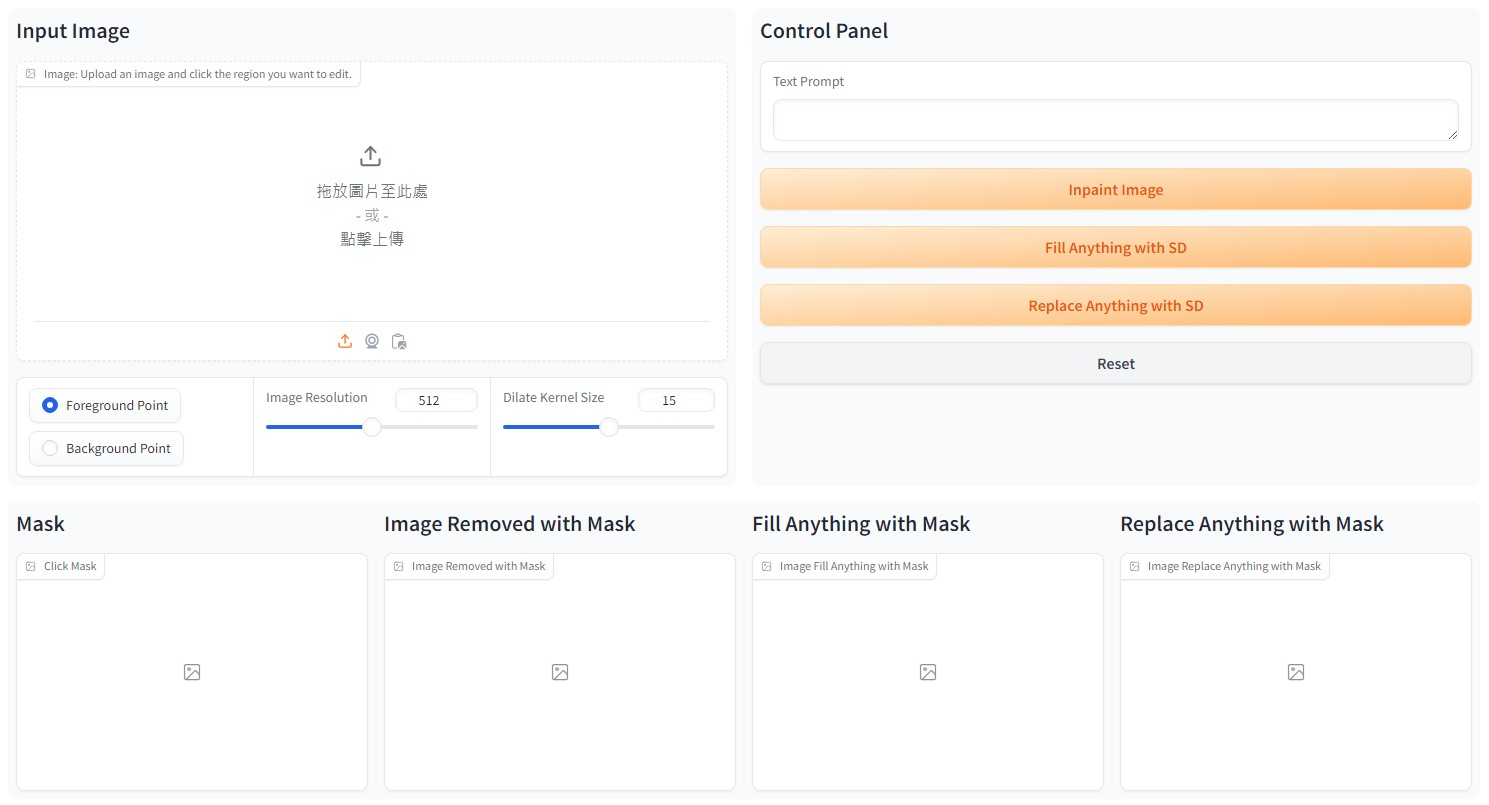
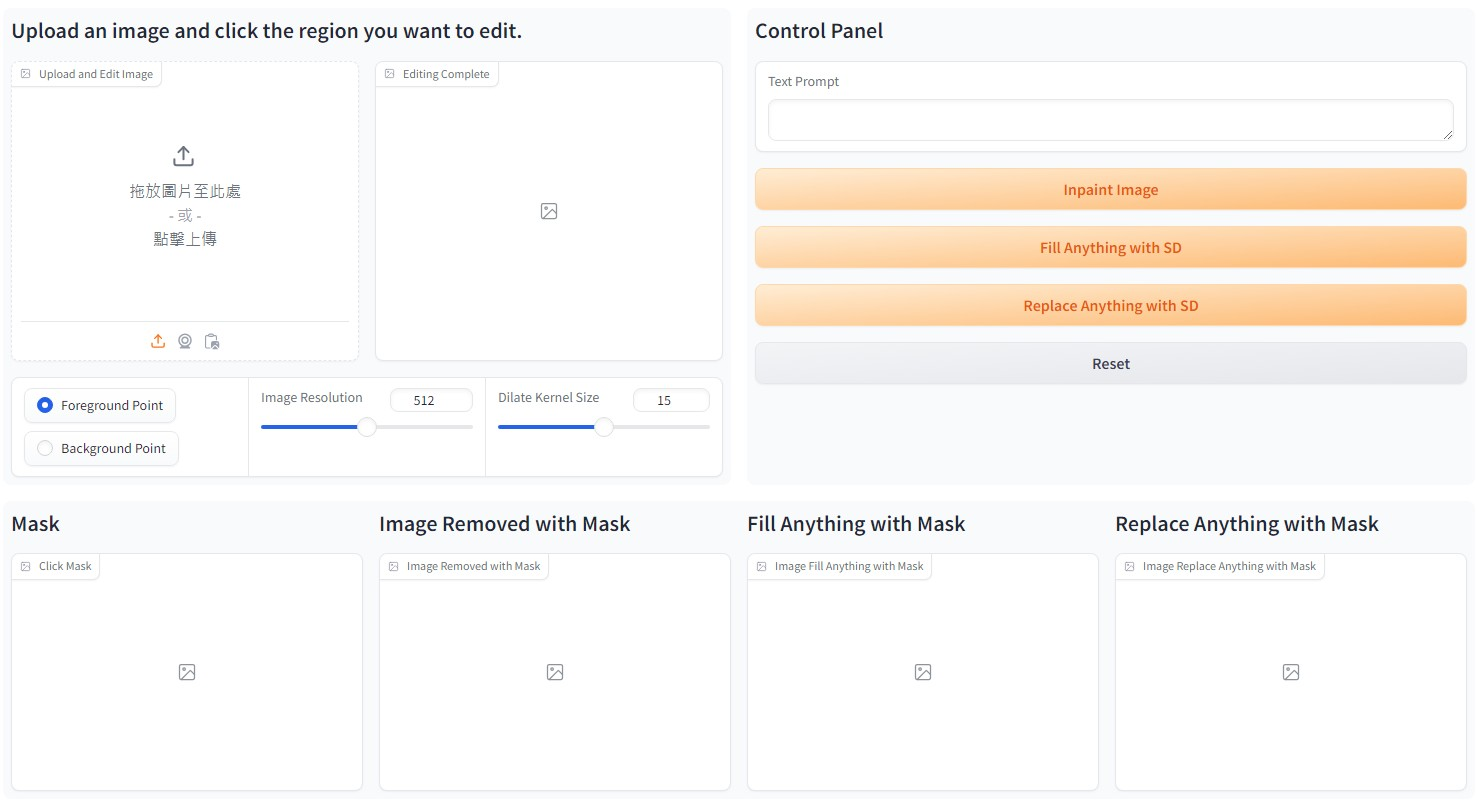
fix Upload an image and click the region you want to edit" where clicking the region causes the image to disappear. You need to click multiple times

diff --git a/app.py b/app.py
@@ -196,47 +196,47 @@ def process_image_click(
     dilate_kernel_size,
     evt: gr.SelectData,
 ):
+    if clicked_points is None:
+        clicked_points = []
+
+    # print("Received click event:", evt)
+    if original_image is None:
+        # print("No image loaded.")
+        return None, clicked_points, None
+
     clicked_coords = evt.index
+    if clicked_coords is None:
+        # print("No valid coordinates received.")
+        return None, clicked_points, None
+
     x, y = clicked_coords
     label = point_prompt
     lab = 1 if label == "Foreground Point" else 0
     clicked_points.append((x, y, lab))
+    # print("Updated points list:", clicked_points)
 
-    if original_image is None:
-        return None, clicked_points, None
     input_image = np.array(original_image, dtype=np.uint8)
-
     H, W, C = input_image.shape
     input_image = HWC3(input_image)
     img = resize_image(input_image, image_resolution)
+    # print("Processed image size:", img.shape)
 
-    # Update the clicked_points
     resized_points = resize_points(clicked_points, input_image.shape, image_resolution)
     mask_click_np = get_click_mask(
         resized_points, features, orig_h, orig_w, input_h, input_w, dilate_kernel_size
     )
-
-    # Convert mask_click_np to HWC format
     mask_click_np = np.transpose(mask_click_np, (1, 2, 0)) * 255.0
-
     mask_image = HWC3(mask_click_np.astype(np.uint8))
     mask_image = cv2.resize(mask_image, (W, H), interpolation=cv2.INTER_LINEAR)
-    # mask_image = Image.fromarray(mask_image_tmp)
+    # print("Mask image prepared.")
 
-    # Draw circles for all clicked points
     edited_image = input_image
     for x, y, lab in clicked_points:
-        # Set the circle color based on the label
         color = (255, 0, 0) if lab == 1 else (0, 0, 255)
-
-        # Draw the circle
         edited_image = cv2.circle(edited_image, (x, y), 20, color, -1)
 
-    # Set the opacity for the mask_image and edited_image
     opacity_mask = 0.75
     opacity_edited = 1.0
-
-    # Combine the edited_image and the mask_image using cv2.addWeighted()
     overlay_image = cv2.addWeighted(
         edited_image,
         opacity_edited,
@@ -245,13 +245,9 @@ def process_image_click(
         0,
     )
 
-    return (
-        overlay_image,
-        # Image.fromarray(overlay_image),
-        clicked_points,
-        # Image.fromarray(mask_image),
-        mask_image,
-    )
+    no_mask_overlay = edited_image.copy()
+
+    return no_mask_overlay, overlay_image, clicked_points, mask_image
 
 
 def image_upload(image, image_resolution):
@@ -300,7 +296,7 @@ model["lama"] = build_lama_model(lama_config, lama_ckpt, device=device)
 button_size = (100, 50)
 with gr.Blocks() as demo:
     clicked_points = gr.State([])
-    origin_image = gr.State(None)
+    # origin_image = gr.State(None)
     click_mask = gr.State(None)
     features = gr.State(None)
     orig_h = gr.State(None)
@@ -311,13 +307,18 @@ with gr.Blocks() as demo:
     with gr.Row():
         with gr.Column(variant="panel"):
             with gr.Row():
-                gr.Markdown("## Input Image")
+                gr.Markdown("## Upload an image and click the region you want to edit.")
             with gr.Row():
                 source_image_click = gr.Image(
                     type="numpy",
-                    height=300,
                     interactive=True,
-                    label="Image: Upload an image and click the region you want to edit.",
+                    label="Upload and Edit Image",
+                )
+
+                image_edit_complete = gr.Image(
+                    type="numpy",
+                    interactive=False,
+                    label="Editing Complete",
                 )
             with gr.Row():
                 point_prompt = gr.Radio(
@@ -390,13 +391,13 @@ with gr.Blocks() as demo:
     source_image_click.upload(
         image_upload,
         inputs=[source_image_click, image_resolution],
-        outputs=[origin_image, features, orig_h, orig_w, input_h, input_w],
+        outputs=[source_image_click, features, orig_h, orig_w, input_h, input_w],
     )
 
     source_image_click.select(
         process_image_click,
         inputs=[
-            origin_image,
+            source_image_click,
             point_prompt,
             clicked_points,
             image_resolution,
@@ -407,26 +408,26 @@ with gr.Blocks() as demo:
             input_w,
             dilate_kernel_size,
         ],
-        outputs=[source_image_click, clicked_points, click_mask],
+        outputs=[source_image_click, image_edit_complete, clicked_points, click_mask],
         show_progress=True,
         queue=True,
     )
 
     lama.click(
         get_inpainted_img,
-        inputs=[origin_image, click_mask, image_resolution],
+        inputs=[source_image_click, click_mask, image_resolution],
         outputs=[img_rm_with_mask],
     )
 
     fill_sd.click(
         get_fill_img_with_sd,
-        inputs=[origin_image, click_mask, image_resolution, text_prompt],
+        inputs=[source_image_click, click_mask, image_resolution, text_prompt],
         outputs=[img_fill_with_mask],
     )
 
     replace_sd.click(
         get_replace_img_with_sd,
-        inputs=[origin_image, click_mask, image_resolution, text_prompt],
+        inputs=[source_image_click, click_mask, image_resolution, text_prompt],
         outputs=[img_replace_with_mask],
     )
 
@@ -436,7 +437,8 @@ with gr.Blocks() as demo:
     clear_button_image.click(
         reset,
         inputs=[
-            origin_image,
+            source_image_click,
+            image_edit_complete,
             clicked_points,
             click_mask,
             features,
@@ -445,7 +447,8 @@ with gr.Blocks() as demo:
             img_replace_with_mask,
         ],
         outputs=[
-            origin_image,
+            source_image_click,
+            image_edit_complete,
             clicked_points,
             click_mask,
             features,

diff --git a/README.md b/README.md
@@ -1,7 +1,5 @@
 # Inpaint-Anything-Gradio
 
-Currently, there is an issue with "Upload an image and click the region you want to edit" where clicking the region causes the image to disappear. You need to click multiple times.
-
 ## Getting Started
 
 ![example1](/example/main.jpg)
@@ -14,7 +12,7 @@ conda create -n inpaint-anything python=3.10 -y
 
 conda activate inpaint-anything
 
- pip install -r lama/requirements.txt
+pip install -r lama/requirements.txt
 
 pip install -r requirements.txt
 ```
